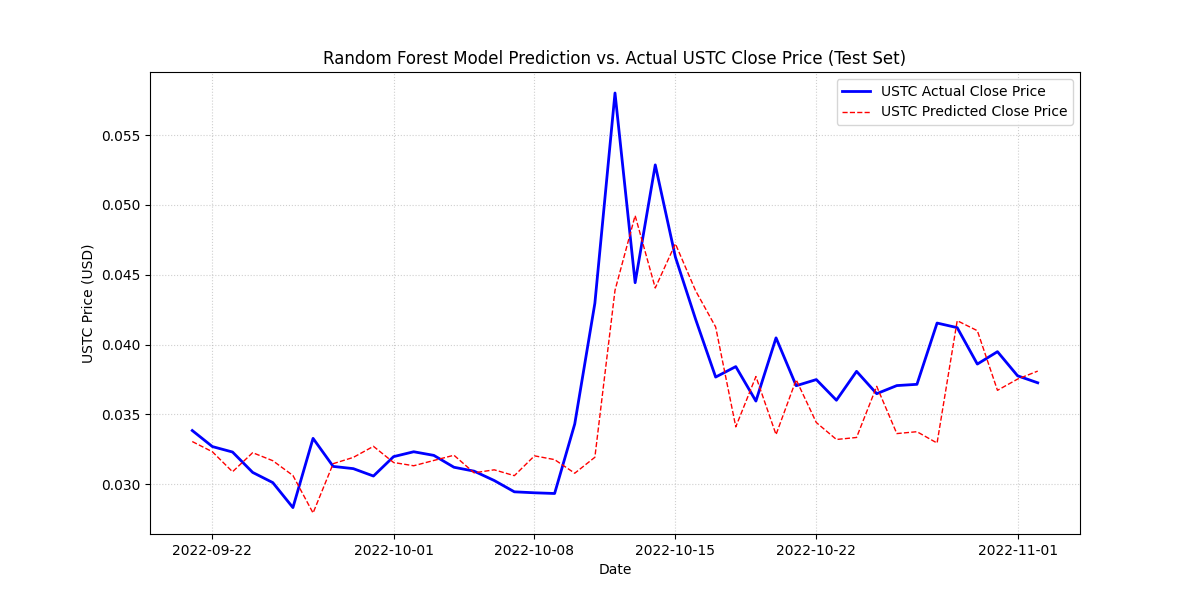
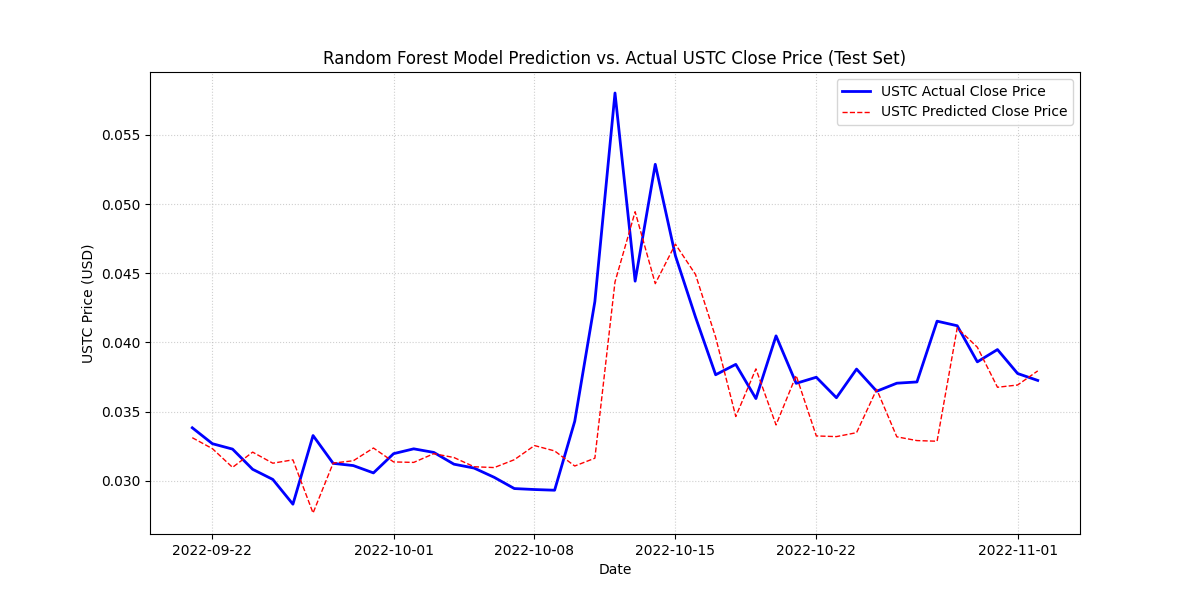
y is ustc close price using RF - randome state = 2025 Mean Squared Error (MSE): 1.725109481116275e-05 >>> print(f"R-squared (R2): {r2}") R-squared (R2): 0.5475319954934431 >>> print("Feature Importance:\n", feature_importance) Feature Importance:  wluna_close_(t-1)            7.510954e-01 ustc_close

diff --git a/StablecoinAnalysis/stablecoin_depegging_analysis.py b/StablecoinAnalysis/stablecoin_depegging_analysis.py
@@ -293,7 +293,7 @@ y = merged_df[target]
 X_train, X_test, y_train, y_test = train_test_split(X, y, test_size=0.2, shuffle=False)
 
 # Train Random Forest Regressor
-model = RandomForestRegressor(n_estimators=100, random_state=42, n_jobs=-1)
+model = RandomForestRegressor(n_estimators=100, random_state=2025, n_jobs=-1)
 model.fit(X_train, y_train)
 
 # Make predictions and evaluate
